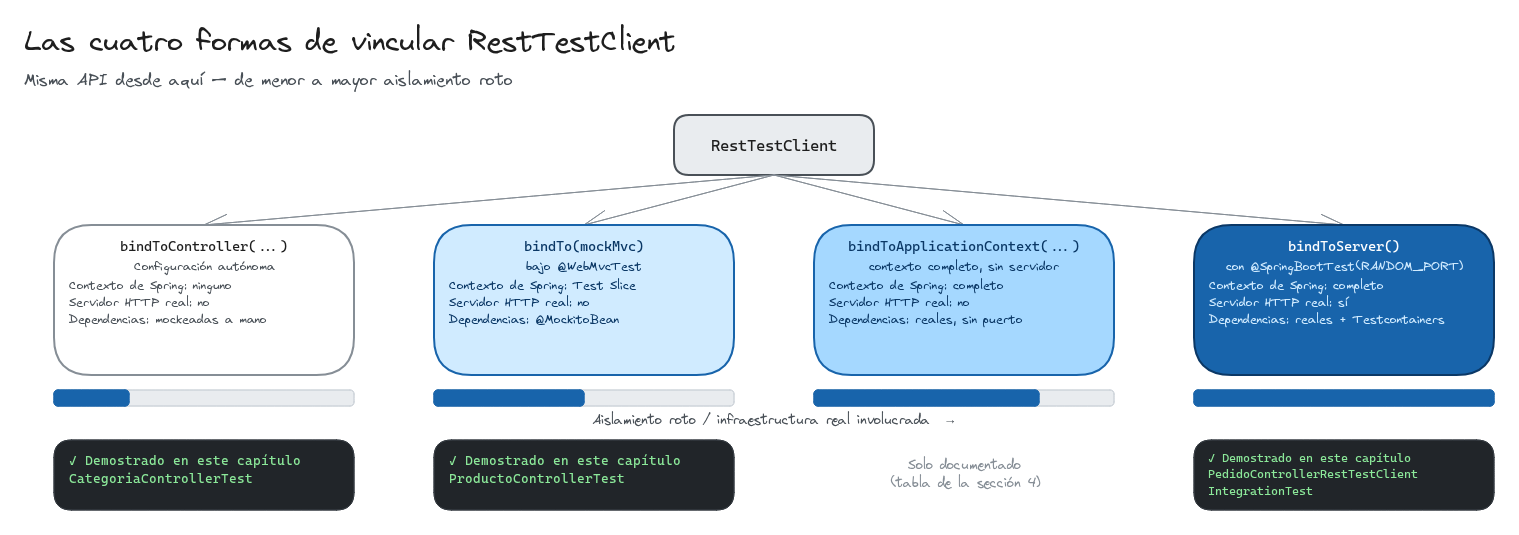
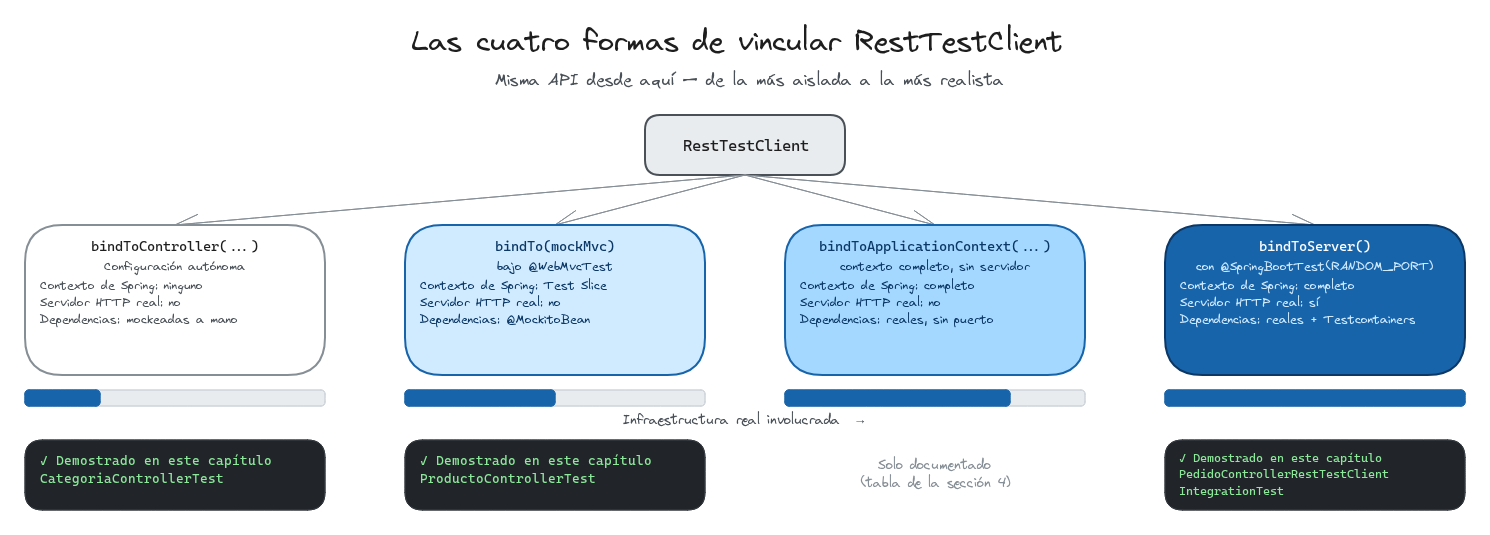
Capítulo 9: aclarar "aislamiento roto" y documentar por qué falta bindToApplicationContext
"Aislamiento roto" no se entendía bien; se sustituye por "de la más
aislada a la más realista" en el README y en el propio diagrama
(subtítulo y leyenda de las barras). Se añade también una nota
explicando por qué bindToApplicationContext se queda solo en la
tabla: frente a las otras tres formas no introduce ninguna anotación
nueva, solo un valor distinto de webEnvironment en @user.

diff --git a/README.md b/README.md
@@ -110,7 +110,7 @@ void buscarUnProductoExistenteDevuelveSuCuerpoTipadoConRestTestClient() {
 
 ## 4. Las cuatro formas de vincular `RestTestClient`
 
-`RestTestClient` no está atado a `@WebMvcTest`: se puede vincular a un controlador de cuatro formas distintas, con la misma API de ahí en adelante en los cuatro casos, y de menor a mayor aislamiento roto:
+`RestTestClient` no está atado a `@WebMvcTest`: se puede vincular a un controlador de cuatro formas distintas, con la misma API de ahí en adelante en los cuatro casos, ordenadas de la más aislada a la más realista:
 
 | Forma de vincularse | Contexto de Spring | Servidor HTTP real | Uso típico |
 |---|---|---|---|
@@ -121,10 +121,16 @@ void buscarUnProductoExistenteDevuelveSuCuerpoTipadoConRestTestClient() {
 
 ![Espectro de las cuatro formas de vincular RestTestClient, desde bindToController (sin contexto de Spring) hasta bindToServer (servidor HTTP real), con una barra de progreso por caja indicando cuánta infraestructura real interviene y qué clase de test de este capítulo demuestra cada una](docs/images/capitulo-09/resttestclient-formas-vinculacion.png)
 
-*Las cuatro formas de vincular `RestTestClient`, de menor a mayor aislamiento roto — tres de las cuatro se demuestran en código en este capítulo; `bindToApplicationContext` queda solo documentado en la tabla anterior.*
+*Las cuatro formas de vincular `RestTestClient`, de la más aislada a la más realista — tres de las cuatro se demuestran en código en este capítulo; `bindToApplicationContext` queda solo documentado en la tabla anterior.*
 <br>
 
 Vale la pena mostrar al menos los dos extremos para entender la progresión completa, no solo el Test Slice web ya visto.
+
+> **¿Por qué `bindToApplicationContext` se queda solo en la tabla?**
+>
+> Porque frente a las otras tres formas no requiere ni siquiera una anotación distinta, solo un valor de atributo distinto. Comparando el arranque de cada caso: `bindToController` no usa ninguna anotación de Spring (Mockito puro); `bindTo(mockMvc)` usa `@WebMvcTest` + `@AutoConfigureRestTestClient`; `bindToServer` usa `@SpringBootTest(webEnvironment = RANDOM_PORT)` + `@AutoConfigureRestTestClient`.
+>
+> Para `bindToApplicationContext` el único cambio sería el valor de `webEnvironment`: en vez de `RANDOM_PORT`, sería `MOCK` — que además es el valor por defecto de `@SpringBootTest` si se omite el atributo entero. Spring Boot documenta que en modo `MOCK` se carga un `ApplicationContext` web completo sin arrancar un servidor embebido, y que `RestTestClient` sigue disponible ahí igual que con `RANDOM_PORT`. Mismo `@SpringBootTest`, misma `@AutoConfigureRestTestClient`, mismas dependencias reales (Neo4j vía Testcontainers) — no aparecería ninguna anotación nueva en el archivo, solo un atributo distinto. Escribir ese cuarto test no enseñaría ninguna técnica nueva frente a los tres ya vistos.
 
 ### 4.1 El extremo más rápido: `bindToController`
 